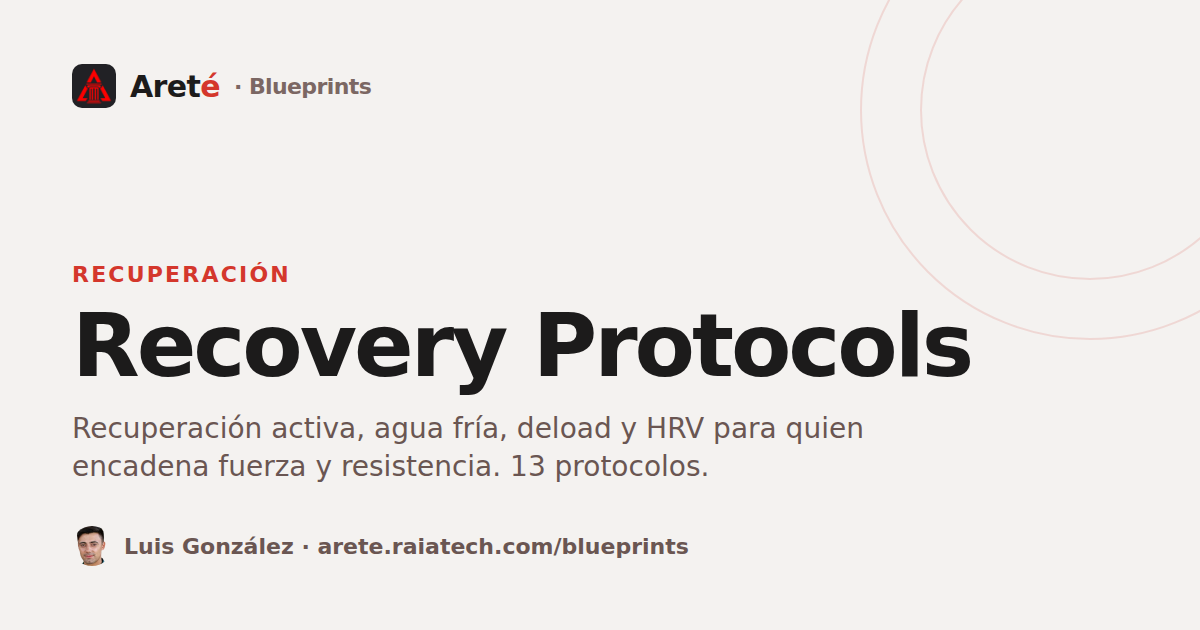
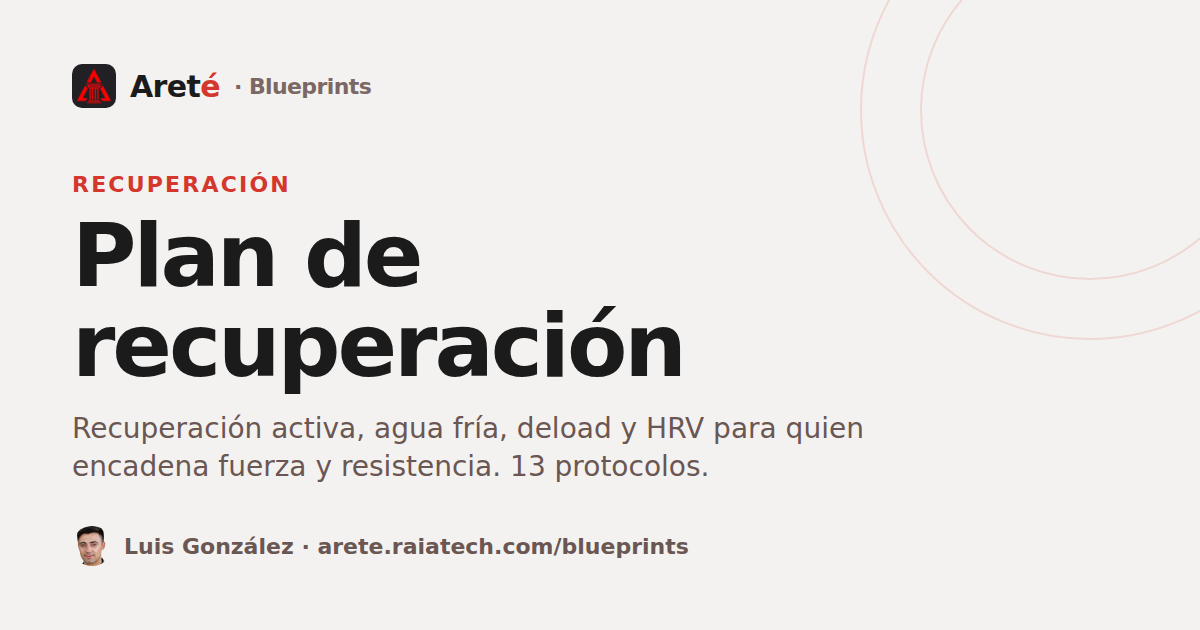
Blueprints: títulos en español
Plan de sueño, de recuperación, de respiración y de desconexión digital (y
movilidad con el mismo formato), en h1, title, og, JSON-LD, imágenes sociales
y portada. También las referencias cruzadas «ver Sleep Blueprint», que ahora
enlazan al plan de sueño.

Changed region(s): [[0.0617, 0.4825, 0.8325, 0.6333], [0.0617, 0.3317, 0.37, 0.4524], [0.0617, 0.2714, 0.2467, 0.3016]]

diff --git a/blueprints/recovery/index.html b/blueprints/recovery/index.html
@@ -3,7 +3,7 @@
 <head>
 <meta charset="UTF-8">
 <meta name="viewport" content="width=device-width, initial-scale=1.0">
-<title>Recovery Protocols · Areté</title>
+<title>Plan de recuperación · Areté</title>
 <link rel="icon" type="image/png" sizes="32x32" href="../../assets/icons/icon-32.png">
 <link rel="icon" type="image/png" sizes="16x16" href="../../assets/icons/icon-16.png">
 <link rel="apple-touch-icon" href="../../assets/icons/icon-192.png">
@@ -61,7 +61,7 @@
 </style>
 <meta name="description" content="Protocolos de recuperación basados en evidencia. Active recovery, CWI, foam rolling, nutrición post-entreno, deload, HRV. Para atletas híbridos.">
 <link rel="canonical" href="https://arete.raiatech.com/blueprints/recovery/">
-<meta property="og:title" content="Recovery Protocols — Areté">
+<meta property="og:title" content="Plan de recuperación — Areté">
 <meta property="og:description" content="Protocolos de recuperación basados en evidencia. Active recovery, CWI, foam rolling, nutrición post-entreno, deload, HRV. Para atletas híbridos.">
 <meta property="og:type" content="article">
 <meta property="og:url" content="https://arete.raiatech.com/blueprints/recovery/">
@@ -69,17 +69,17 @@
 <meta property="og:image" content="https://arete.raiatech.com/assets/blog/og/bp-recovery.png">
 <meta property="og:image:width" content="1200">
 <meta property="og:image:height" content="630">
-<meta property="og:image:alt" content="Recovery Protocols — Areté">
+<meta property="og:image:alt" content="Plan de recuperación — Areté">
 <meta name="twitter:card" content="summary_large_image">
 <meta name="twitter:site" content="@iamluisgb">
 <meta name="twitter:creator" content="@iamluisgb">
-<meta name="twitter:title" content="Recovery Protocols — Areté">
+<meta name="twitter:title" content="Plan de recuperación — Areté">
 <meta name="twitter:description" content="Protocolos de recuperación basados en evidencia. Active recovery, CWI, foam rolling, nutrición post-entreno, deload, HRV. Para atletas híbridos.">
 <meta name="twitter:image" content="https://arete.raiatech.com/assets/blog/og/bp-recovery.png"><!-- blog:head -->
 <meta property="article:published_time" content="2026-07-05">
 <meta property="article:modified_time" content="2026-08-24">
 <meta property="article:author" content="Luis González">
-<script type="application/ld+json">{"@context":"https://schema.org","@type":"Article","headline":"Recovery Protocols","description":"Recuperación activa, agua fría, deload y HRV para quien encadena fuerza y resistencia. 13 protocolos.","inLanguage":"es","url":"https://arete.raiatech.com/blueprints/recovery/","mainEntityOfPage":"https://arete.raiatech.com/blueprints/recovery/","image":"https://arete.raiatech.com/assets/blog/og/bp-recovery.png","datePublished":"2026-07-05","dateModified":"2026-08-24","timeRequired":"PT13M","author":{"@type":"Person","name":"Luis González","url":"https://luisgonzalezbernal.com"},"publisher":{"@type":"Organization","name":"Areté","url":"https://arete.raiatech.com","logo":"https://arete.raiatech.com/assets/icons/icon-192.png"}}</script>
+<script type="application/ld+json">{"@context":"https://schema.org","@type":"Article","headline":"Plan de recuperación","description":"Recuperación activa, agua fría, deload y HRV para quien encadena fuerza y resistencia. 13 protocolos.","inLanguage":"es","url":"https://arete.raiatech.com/blueprints/recovery/","mainEntityOfPage":"https://arete.raiatech.com/blueprints/recovery/","image":"https://arete.raiatech.com/assets/blog/og/bp-recovery.png","datePublished":"2026-07-05","dateModified":"2026-08-24","timeRequired":"PT13M","author":{"@type":"Person","name":"Luis González","url":"https://luisgonzalezbernal.com"},"publisher":{"@type":"Organization","name":"Areté","url":"https://arete.raiatech.com","logo":"https://arete.raiatech.com/assets/icons/icon-192.png"}}</script>
 <script src="../../blog/blog.js" defer></script>
 <!-- /blog:head --></head>
 <body>
@@ -91,7 +91,7 @@
 <div class="article-header">
   <a href="../index.html" class="back">← Volver a blueprints</a>
   <div class="phase-tag">Blueprint</div>
-  <h1>Recovery Protocols</h1>
+  <h1>Plan de <span>recuperación</span></h1>
   <div class="subtitle">Recuperación basada en evidencia. No tips genéricos — protocolos con mecanismo, dosis y timing. Diseñado para atletas híbridos que encadenan fuerza y resistencia.</div><!-- blog:byline --><div class="byline"><img src="../../assets/landing/luis.webp" alt="" width="36" height="36" decoding="async"><div><a href="https://luisgonzalezbernal.com" rel="author">Luis González</a><span>Actualizado el <time datetime="2026-08-24">24 de agosto de 2026</time> · 13 min de lectura</span></div></div><!-- /blog:byline -->
   <div class="badge-row">
     <span class="level-badge level-good"><span class="material-symbols-outlined" style="font-size:16px">checklist</span> 3 fases · 12 protocolos · 20 referencias</span>
@@ -366,7 +366,7 @@
 </div>
 
 <div id="sleep" class="section-label">Stacking de sueño · Noche post-entreno</div>
-<p style="font-size:var(--bp-fs-sm);color:var(--text2);margin-bottom:var(--sp-3)">El sueño es el protocolo de recuperación más potente que existe. La extensión de sueño (8-10h) mejora rendimiento, tiempo de reacción y reduce lesiones. Ver el <a href="../sleep/">Sleep Blueprint</a> para el protocolo completo. Aquí: lo específico para recuperación post-entreno.</p>
+<p style="font-size:var(--bp-fs-sm);color:var(--text2);margin-bottom:var(--sp-3)">El sueño es el protocolo de recuperación más potente que existe. La extensión de sueño (8-10h) mejora rendimiento, tiempo de reacción y reduce lesiones. Ver el <a href="../sleep/">plan de sueño</a> para el protocolo completo. Aquí: lo específico para recuperación post-entreno.</p>
 
 <div class="ex-card">
   <div class="num">Protocolo 10</div>
@@ -463,7 +463,7 @@
     <li><strong>Frecuencia:</strong> mantén los días de entreno. Reducir días rompe el ritmo y aumenta ansiedad.</li>
     <li><strong>Última sesión dura:</strong> 3-5 días antes. Intensidad alta, volumen mínimo (2-3 sets de activación).</li>
     <li><strong>Nutrición:</strong> aumenta carbs 2-3 días antes (carb loading) para competiciones &gt;90 min.</li>
-    <li><strong>Sleep:</strong> prioriza 8-10h. No pruebes nada nuevo la semana previa.</li>
+    <li><strong>Sueño:</strong> prioriza 8-10h. No pruebes nada nuevo la semana previa.</li>
   </ol>
   <div class="tips">
     <span class="tip tip-ok">· Baja volumen, mantén intensidad y frecuencia</span>
@@ -515,7 +515,7 @@
     <div class="tl-time">Noche</div>
     <div class="tl-content">
       <h4>Stacking de sueño</h4>
-      <p>8-10h. Temperatura 18-20°C. Sin pantallas 60 min antes. Ver Sleep Blueprint.</p>
+      <p>8-10h. Temperatura 18-20°C. Sin pantallas 60 min antes. Ver el <a href="../sleep/">plan de sueño</a>.</p>
     </div>
   </div>
   <div class="tl-item">
@@ -551,7 +551,7 @@
         <li>CWI testeado post-sesión de resistencia</li>
         <li>Prendas de compresión probadas</li>
         <li>Estiramiento post-entreno como hábito</li>
-        <li>Sleep stacking: 8h+ las noches post-entreno</li>
+        <li>Acumula sueño: 8h+ las noches post-entreno</li>
       </ul>
     </div>
     <div class="check-col">
@@ -573,7 +573,7 @@
       <ul>
         <li>Taper ejecutado (1-2 semanas)</li>
         <li>Carb loading si evento &gt;90 min</li>
-        <li>Sleep 8-10h la semana previa</li>
+        <li>Duerme 8-10h la semana previa</li>
         <li>Nada nuevo la semana de competición</li>
       </ul>
     </div>
@@ -612,7 +612,7 @@
   <p>Areté mide tus 7 dominios con tests concretos y te dice cuál te está frenando. Gratis.</p>
   <p style="margin-top:.75rem"><a href="../../app.html" class="cta">Descubre tu nivel →</a></p>
 </div>
-<nav class="read-next" aria-label="Más blueprints"><h2 class="read-next-title">Más blueprints</h2><div class="read-next-grid"><a href="../breathwork/" class="read-next-card"><span class="card-phase">Respiración</span><span class="nav-title">Breathwork Blueprint</span><span class="nav-desc">Qué respiración usar para el estrés, la recuperación, la activación y el rendimiento, y por qué. 12 protocolos.</span></a><a href="../digital-detox/" class="read-next-card"><span class="card-phase">Atención</span><span class="nav-title">Digital Detox Blueprint</span><span class="nav-desc">Mañanas sin móvil, bloqueadores y un entorno pensado para el trabajo profundo. 11 protocolos.</span></a></div></nav>
+<nav class="read-next" aria-label="Más blueprints"><h2 class="read-next-title">Más blueprints</h2><div class="read-next-grid"><a href="../breathwork/" class="read-next-card"><span class="card-phase">Respiración</span><span class="nav-title">Plan de respiración</span><span class="nav-desc">Qué respiración usar para el estrés, la recuperación, la activación y el rendimiento, y por qué. 12 protocolos.</span></a><a href="../digital-detox/" class="read-next-card"><span class="card-phase">Atención</span><span class="nav-title">Plan de desconexión digital</span><span class="nav-desc">Mañanas sin móvil, bloqueadores y un entorno pensado para el trabajo profundo. 11 protocolos.</span></a></div></nav>
 <!-- /blog:end --></div><!-- .article-body -->
 
 <!-- blog:footer --><footer class="site-footer">

diff --git a/blueprints/digital-detox/index.html b/blueprints/digital-detox/index.html
@@ -3,7 +3,7 @@
 <head>
 <meta charset="UTF-8">
 <meta name="viewport" content="width=device-width, initial-scale=1.0">
-<title>Digital Detox Blueprint · Areté</title>
+<title>Plan de desconexión digital · Areté</title>
 <link rel="icon" type="image/png" sizes="32x32" href="../../assets/icons/icon-32.png">
 <link rel="icon" type="image/png" sizes="16x16" href="../../assets/icons/icon-16.png">
 <link rel="apple-touch-icon" href="../../assets/icons/icon-192.png">
@@ -71,7 +71,7 @@
 </style>
 <meta name="description" content="Protocolo de desintoxicación digital basado en evidencia. Diseño ambiental, gestión de notificaciones, deep work, descanso semanal. Para recuperar atención y intención.">
 <link rel="canonical" href="https://arete.raiatech.com/blueprints/digital-detox/">
-<meta property="og:title" content="Digital Detox Blueprint — Areté">
+<meta property="og:title" content="Plan de desconexión digital — Areté">
 <meta property="og:description" content="Protocolo de desintoxicación digital basado en evidencia. Diseño ambiental, gestión de notificaciones, deep work, descanso semanal. Para recuperar atención y intención.">
 <meta property="og:type" content="article">
 <meta property="og:url" content="https://arete.raiatech.com/blueprints/digital-detox/">
@@ -79,17 +79,17 @@
 <meta property="og:image" content="https://arete.raiatech.com/assets/blog/og/bp-digital-detox.png">
 <meta property="og:image:width" content="1200">
 <meta property="og:image:height" content="630">
-<meta property="og:image:alt" content="Digital Detox Blueprint — Areté">
+<meta property="og:image:alt" content="Plan de desconexión digital — Areté">
 <meta name="twitter:card" content="summary_large_image">
 <meta name="twitter:site" content="@iamluisgb">
 <meta name="twitter:creator" content="@iamluisgb">
-<meta name="twitter:title" content="Digital Detox Blueprint — Areté">
+<meta name="twitter:title" content="Plan de desconexión digital — Areté">
 <meta name="twitter:description" content="Protocolo de desintoxicación digital basado en evidencia. Diseño ambiental, gestión de notificaciones, deep work, descanso semanal. Para recuperar atención y intención.">
 <meta name="twitter:image" content="https://arete.raiatech.com/assets/blog/og/bp-digital-detox.png"><!-- blog:head -->
 <meta property="article:published_time" content="2026-07-08">
 <meta property="article:modified_time" content="2026-08-24">
 <meta property="article:author" content="Luis González">
-<script type="application/ld+json">{"@context":"https://schema.org","@type":"Article","headline":"Digital Detox Blueprint","description":"Mañanas sin móvil, bloqueadores y un entorno pensado para el trabajo profundo. 11 protocolos.","inLanguage":"es","url":"https://arete.raiatech.com/blueprints/digital-detox/","mainEntityOfPage":"https://arete.raiatech.com/blueprints/digital-detox/","image":"https://arete.raiatech.com/assets/blog/og/bp-digital-detox.png","datePublished":"2026-07-08","dateModified":"2026-08-24","timeRequired":"PT23M","author":{"@type":"Person","name":"Luis González","url":"https://luisgonzalezbernal.com"},"publisher":{"@type":"Organization","name":"Areté","url":"https://arete.raiatech.com","logo":"https://arete.raiatech.com/assets/icons/icon-192.png"}}</script>
+<script type="application/ld+json">{"@context":"https://schema.org","@type":"Article","headline":"Plan de desconexión digital","description":"Mañanas sin móvil, bloqueadores y un entorno pensado para el trabajo profundo. 11 protocolos.","inLanguage":"es","url":"https://arete.raiatech.com/blueprints/digital-detox/","mainEntityOfPage":"https://arete.raiatech.com/blueprints/digital-detox/","image":"https://arete.raiatech.com/assets/blog/og/bp-digital-detox.png","datePublished":"2026-07-08","dateModified":"2026-08-24","timeRequired":"PT23M","author":{"@type":"Person","name":"Luis González","url":"https://luisgonzalezbernal.com"},"publisher":{"@type":"Organization","name":"Areté","url":"https://arete.raiatech.com","logo":"https://arete.raiatech.com/assets/icons/icon-192.png"}}</script>
 <script src="../../blog/blog.js" defer></script>
 <!-- /blog:head --></head>
 <body>
@@ -101,7 +101,7 @@
 <div class="article-header">
   <a href="../index.html" class="back">← Blueprints</a>
   <div class="phase-tag">Blueprint</div>
-  <h1>Digital Detox <span>Blueprint</span></h1>
+  <h1>Plan de <span>desconexión digital</span></h1>
   <div class="subtitle">Recupera tu atención. No tips de autoayuda — protocolos con mecanismo, dosis y timing. Diseñado para quien vive pegado a una pantalla y quiere recuperar intención sin irse a una cueva.</div><!-- blog:byline --><div class="byline"><img src="../../assets/landing/luis.webp" alt="" width="36" height="36" decoding="async"><div><a href="https://luisgonzalezbernal.com" rel="author">Luis González</a><span>Actualizado el <time datetime="2026-08-24">24 de agosto de 2026</time> · 23 min de lectura</span></div></div><!-- /blog:byline -->
   <div class="badge-row">
     <span class="badge">12 semanas</span>
@@ -209,7 +209,7 @@
   <ol class="steps">
     <li><strong>Compra un despertador físico.</strong> Usa el móvil como alarma es la excusa #1 para cogerlo al despertar. Un despertador de 15€ rompe esa cadena.</li>
     <li><strong>Deja el teléfono fuera del dormitorio.</strong> O al menos, al otro lado de la habitación, fuera de la mesilla. La fricción física es tu aliada.</li>
-    <li><strong>Primeros 60 min sin pantalla.</strong> Desayuno, luz matutina (ver <a href="../sleep/">Sleep Blueprint</a>), movimiento, lectura papel. El día empieza con tu agenda, no con la de otros.</li>
+    <li><strong>Primeros 60 min sin pantalla.</strong> Desayuno, luz matutina (ver el <a href="../sleep/">plan de sueño</a>), movimiento, lectura papel. El día empieza con tu agenda, no con la de otros.</li>
     <li><strong>Si necesitas el móvil para algo urgente</strong> (familia, on-call): ponlo en modo No Molestar con excepciones. No es una prohibición absoluta — es una intención por defecto.</li>
     <li><strong>La primera vez que lo cojas</strong> (después de 60 min), hazlo con intención: "¿para qué lo necesito ahora?". Si la respuesta es "mirar", espera 10 min más.</li>
   <div class="tips">
@@ -512,7 +512,7 @@
       <div class="tl-time">21:00</div>
       <div class="tl-content">
         <div class="tl-title">Reducción de pantallas</div>
-        <div class="tl-detail">Mismo principio que el Sleep Blueprint: 2h antes de dormir, pantallas off. Lectura, conversación, movimiento.</div>
+        <div class="tl-detail">Mismo principio que el plan de sueño: 2h antes de dormir, pantallas off. Lectura, conversación, movimiento.</div>
       </div>
     </div>
     <div class="tl-row">
@@ -617,7 +617,7 @@
   <p>Areté mide tus 7 dominios con tests concretos y te dice cuál te está frenando. Gratis.</p>
   <p style="margin-top:.75rem"><a href="../../app.html" class="cta">Descubre tu nivel →</a></p>
 </div>
-<nav class="read-next" aria-label="Más blueprints"><h2 class="read-next-title">Más blueprints</h2><div class="read-next-grid"><a href="../movilidad/" class="read-next-card"><span class="card-phase">Movilidad</span><span class="nav-title">Plan de movilidad: 12 semanas</span><span class="nav-desc">Control activo del rango de movimiento, medido con AKE. 21 ejercicios que encajan con la carrera y la fuerza.</span></a><a href="../sleep/" class="read-next-card"><span class="card-phase">Sueño</span><span class="nav-title">Sleep Blueprint</span><span class="nav-desc">Luz, temperatura, cafeína y suplementos, con mecanismo y dosis. 3 fases y 11 protocolos.</span></a></div></nav>
+<nav class="read-next" aria-label="Más blueprints"><h2 class="read-next-title">Más blueprints</h2><div class="read-next-grid"><a href="../movilidad/" class="read-next-card"><span class="card-phase">Movilidad</span><span class="nav-title">Plan de movilidad: 12 semanas</span><span class="nav-desc">Control activo del rango de movimiento, medido con AKE. 21 ejercicios que encajan con la carrera y la fuerza.</span></a><a href="../sleep/" class="read-next-card"><span class="card-phase">Sueño</span><span class="nav-title">Plan de sueño</span><span class="nav-desc">Luz, temperatura, cafeína y suplementos, con mecanismo y dosis. 3 fases y 11 protocolos.</span></a></div></nav>
 <!-- /blog:end --></div><!-- .article-body -->
 
 <!-- blog:footer --><footer class="site-footer">

diff --git a/blueprints/breathwork/index.html b/blueprints/breathwork/index.html
@@ -3,7 +3,7 @@
 <head>
 <meta charset="UTF-8">
 <meta name="viewport" content="width=device-width, initial-scale=1.0">
-<title>Breathwork Blueprint · Areté</title>
+<title>Plan de respiración · Areté</title>
 <link rel="icon" type="image/png" sizes="32x32" href="../../assets/icons/icon-32.png">
 <link rel="icon" type="image/png" sizes="16x16" href="../../assets/icons/icon-16.png">
 <link rel="apple-touch-icon" href="../../assets/icons/icon-192.png">
@@ -71,7 +71,7 @@
 </style>
 <meta name="description" content="Protocolos de respiración basados en evidencia. Box breathing, respiración diafragmática, Wim Hof, Buteyko. Para estrés, recuperación, activación y rendimiento.">
 <link rel="canonical" href="https://arete.raiatech.com/blueprints/breathwork/">
-<meta property="og:title" content="Breathwork Blueprint — Areté">
+<meta property="og:title" content="Plan de respiración — Areté">
 <meta property="og:description" content="Protocolos de respiración basados en evidencia. Box breathing, respiración diafragmática, Wim Hof, Buteyko. Para estrés, recuperación, activación y rendimiento.">
 <meta property="og:type" content="article">
 <meta property="og:url" content="https://arete.raiatech.com/blueprints/breathwork/">
@@ -79,17 +79,17 @@
 <meta property="og:image" content="https://arete.raiatech.com/assets/blog/og/bp-breathwork.png">
 <meta property="og:image:width" content="1200">
 <meta property="og:image:height" content="630">
-<meta property="og:image:alt" content="Breathwork Blueprint — Areté">
+<meta property="og:image:alt" content="Plan de respiración — Areté">
 <meta name="twitter:card" content="summary_large_image">
 <meta name="twitter:site" content="@iamluisgb">
 <meta name="twitter:creator" content="@iamluisgb">
-<meta name="twitter:title" content="Breathwork Blueprint — Areté">
+<meta name="twitter:title" content="Plan de respiración — Areté">
 <meta name="twitter:description" content="Protocolos de respiración basados en evidencia. Box breathing, respiración diafragmática, Wim Hof, Buteyko. Para estrés, recuperación, activación y rendimiento.">
 <meta name="twitter:image" content="https://arete.raiatech.com/assets/blog/og/bp-breathwork.png"><!-- blog:head -->
 <meta property="article:published_time" content="2026-07-08">
 <meta property="article:modified_time" content="2026-08-24">
 <meta property="article:author" content="Luis González">
-<script type="application/ld+json">{"@context":"https://schema.org","@type":"Article","headline":"Breathwork Blueprint","description":"Qué respiración usar para el estrés, la recuperación, la activación y el rendimiento, y por qué. 12 protocolos.","inLanguage":"es","url":"https://arete.raiatech.com/blueprints/breathwork/","mainEntityOfPage":"https://arete.raiatech.com/blueprints/breathwork/","image":"https://arete.raiatech.com/assets/blog/og/bp-breathwork.png","datePublished":"2026-07-08","dateModified":"2026-08-24","timeRequired":"PT22M","author":{"@type":"Person","name":"Luis González","url":"https://luisgonzalezbernal.com"},"publisher":{"@type":"Organization","name":"Areté","url":"https://arete.raiatech.com","logo":"https://arete.raiatech.com/assets/icons/icon-192.png"}}</script>
+<script type="application/ld+json">{"@context":"https://schema.org","@type":"Article","headline":"Plan de respiración","description":"Qué respiración usar para el estrés, la recuperación, la activación y el rendimiento, y por qué. 12 protocolos.","inLanguage":"es","url":"https://arete.raiatech.com/blueprints/breathwork/","mainEntityOfPage":"https://arete.raiatech.com/blueprints/breathwork/","image":"https://arete.raiatech.com/assets/blog/og/bp-breathwork.png","datePublished":"2026-07-08","dateModified":"2026-08-24","timeRequired":"PT22M","author":{"@type":"Person","name":"Luis González","url":"https://luisgonzalezbernal.com"},"publisher":{"@type":"Organization","name":"Areté","url":"https://arete.raiatech.com","logo":"https://arete.raiatech.com/assets/icons/icon-192.png"}}</script>
 <script src="../../blog/blog.js" defer></script>
 <!-- /blog:head --></head>
 <body>
@@ -101,7 +101,7 @@
 <div class="article-header">
   <a href="../index.html" class="back">← Blueprints</a>
   <div class="phase-tag">Blueprint</div>
-  <h1>Breathwork <span>Blueprint</span></h1>
+  <h1>Plan de <span>respiración</span></h1>
   <div class="subtitle">Respiración como herramienta. No es espiritualidad — es fisiología. Protocolos con mecanismo, dosis y timing para cuatro contextos: estrés agudo, recuperación, activación y rendimiento. Lo que funciona, lo que no, y por qué.</div><!-- blog:byline --><div class="byline"><img src="../../assets/landing/luis.webp" alt="" width="36" height="36" decoding="async"><div><a href="https://luisgonzalezbernal.com" rel="author">Luis González</a><span>Actualizado el <time datetime="2026-08-24">24 de agosto de 2026</time> · 22 min de lectura</span></div></div><!-- /blog:byline -->
   <div class="badge-row">
     <span class="badge">12 semanas</span>
@@ -421,7 +421,7 @@
 </div>
 
 <div id="sleep-breath" class="section-label" style="margin-top:var(--sp-5)">Protocolo pre-sueño · 5 min · en la cama</div>
-<p style="font-size:var(--bp-fs-sm);color:var(--text2);margin-bottom:var(--sp-3)">El último protocolo del día. El wind-down del Sleep Blueprint ya reduce luz y temperatura. La respiración es la capa final: apaga el sistema nervioso central en menos de 5 min. Es el protocolo que más impacto tiene con menos esfuerzo.</p>
+<p style="font-size:var(--bp-fs-sm);color:var(--text2);margin-bottom:var(--sp-3)">El último protocolo del día. La rutina para desconectar del <a href="../sleep/">plan de sueño</a> ya reduce luz y temperatura. La respiración es la capa final: apaga el sistema nervioso central en menos de 5 min. Es el protocolo que más impacto tiene con menos esfuerzo.</p>
 
 <div class="ex-card">
   <div class="num">Protocolo 11</div>
@@ -623,7 +623,7 @@
   <p>Areté mide tus 7 dominios con tests concretos y te dice cuál te está frenando. Gratis.</p>
   <p style="margin-top:.75rem"><a href="../../app.html" class="cta">Descubre tu nivel →</a></p>
 </div>
-<nav class="read-next" aria-label="Más blueprints"><h2 class="read-next-title">Más blueprints</h2><div class="read-next-grid"><a href="../digital-detox/" class="read-next-card"><span class="card-phase">Atención</span><span class="nav-title">Digital Detox Blueprint</span><span class="nav-desc">Mañanas sin móvil, bloqueadores y un entorno pensado para el trabajo profundo. 11 protocolos.</span></a><a href="../movilidad/" class="read-next-card"><span class="card-phase">Movilidad</span><span class="nav-title">Plan de movilidad: 12 semanas</span><span class="nav-desc">Control activo del rango de movimiento, medido con AKE. 21 ejercicios que encajan con la carrera y la fuerza.</span></a></div></nav>
+<nav class="read-next" aria-label="Más blueprints"><h2 class="read-next-title">Más blueprints</h2><div class="read-next-grid"><a href="../digital-detox/" class="read-next-card"><span class="card-phase">Atención</span><span class="nav-title">Plan de desconexión digital</span><span class="nav-desc">Mañanas sin móvil, bloqueadores y un entorno pensado para el trabajo profundo. 11 protocolos.</span></a><a href="../movilidad/" class="read-next-card"><span class="card-phase">Movilidad</span><span class="nav-title">Plan de movilidad: 12 semanas</span><span class="nav-desc">Control activo del rango de movimiento, medido con AKE. 21 ejercicios que encajan con la carrera y la fuerza.</span></a></div></nav>
 <!-- /blog:end --></div><!-- .article-body -->
 
 <!-- blog:footer --><footer class="site-footer">

diff --git a/blueprints/sleep/index.html b/blueprints/sleep/index.html
@@ -3,7 +3,7 @@
 <head>
 <meta charset="UTF-8">
 <meta name="viewport" content="width=device-width, initial-scale=1.0">
-<title>Sleep Blueprint · Areté</title>
+<title>Plan de sueño · Areté</title>
 <link rel="icon" type="image/png" sizes="32x32" href="../../assets/icons/icon-32.png">
 <link rel="icon" type="image/png" sizes="16x16" href="../../assets/icons/icon-16.png">
 <link rel="apple-touch-icon" href="../../assets/icons/icon-192.png">
@@ -76,7 +76,7 @@
 </style>
 <meta name="description" content="Protocolo de sueño basado en evidencia. Luz, temperatura, cafeína, suplementos. Modelo de dos procesos, ritmo circadiano, higiene del sueño.">
 <link rel="canonical" href="https://arete.raiatech.com/blueprints/sleep/">
-<meta property="og:title" content="Sleep Blueprint — Areté">
+<meta property="og:title" content="Plan de sueño — Areté">
 <meta property="og:description" content="Protocolo de sueño basado en evidencia. Luz, temperatura, cafeína, suplementos. Modelo de dos procesos, ritmo circadiano, higiene del sueño.">
 <meta property="og:type" content="article">
 <meta property="og:url" content="https://arete.raiatech.com/blueprints/sleep/">
@@ -84,17 +84,17 @@
 <meta property="og:image" content="https://arete.raiatech.com/assets/blog/og/bp-sleep.png">
 <meta property="og:image:width" content="1200">
 <meta property="og:image:height" content="630">
-<meta property="og:image:alt" content="Sleep Blueprint — Areté">
+<meta property="og:image:alt" content="Plan de sueño — Areté">
 <meta name="twitter:card" content="summary_large_image">
 <meta name="twitter:site" content="@iamluisgb">
 <meta name="twitter:creator" content="@iamluisgb">
-<meta name="twitter:title" content="Sleep Blueprint — Areté">
+<meta name="twitter:title" content="Plan de sueño — Areté">
 <meta name="twitter:description" content="Protocolo de sueño basado en evidencia. Luz, temperatura, cafeína, suplementos. Modelo de dos procesos, ritmo circadiano, higiene del sueño.">
 <meta name="twitter:image" content="https://arete.raiatech.com/assets/blog/og/bp-sleep.png"><!-- blog:head -->
 <meta property="article:published_time" content="2026-07-05">
 <meta property="article:modified_time" content="2026-08-24">
 <meta property="article:author" content="Luis González">
-<script type="application/ld+json">{"@context":"https://schema.org","@type":"Article","headline":"Sleep Blueprint","description":"Luz, temperatura, cafeína y suplementos, con mecanismo y dosis. 3 fases y 11 protocolos.","inLanguage":"es","url":"https://arete.raiatech.com/blueprints/sleep/","mainEntityOfPage":"https://arete.raiatech.com/blueprints/sleep/","image":"https://arete.raiatech.com/assets/blog/og/bp-sleep.png","datePublished":"2026-07-05","dateModified":"2026-08-24","timeRequired":"PT16M","author":{"@type":"Person","name":"Luis González","url":"https://luisgonzalezbernal.com"},"publisher":{"@type":"Organization","name":"Areté","url":"https://arete.raiatech.com","logo":"https://arete.raiatech.com/assets/icons/icon-192.png"}}</script>
+<script type="application/ld+json">{"@context":"https://schema.org","@type":"Article","headline":"Plan de sueño","description":"Luz, temperatura, cafeína y suplementos, con mecanismo y dosis. 3 fases y 11 protocolos.","inLanguage":"es","url":"https://arete.raiatech.com/blueprints/sleep/","mainEntityOfPage":"https://arete.raiatech.com/blueprints/sleep/","image":"https://arete.raiatech.com/assets/blog/og/bp-sleep.png","datePublished":"2026-07-05","dateModified":"2026-08-24","timeRequired":"PT16M","author":{"@type":"Person","name":"Luis González","url":"https://luisgonzalezbernal.com"},"publisher":{"@type":"Organization","name":"Areté","url":"https://arete.raiatech.com","logo":"https://arete.raiatech.com/assets/icons/icon-192.png"}}</script>
 <script src="../../blog/blog.js" defer></script>
 <!-- /blog:head --></head>
 <body>
@@ -106,7 +106,7 @@
 <div class="article-header">
   <a href="../index.html" class="back">← Blueprints</a>
   <div class="phase-tag">Blueprint</div>
-  <h1>Sleep <span>Blueprint</span></h1>
+  <h1>Plan de <span>sueño</span></h1>
   <div class="subtitle">Sueño óptimo basado en evidencia. No tips genéricos — protocolos con mecanismo, dosis y timing. Diseñado para atletas híbridos.</div><!-- blog:byline --><div class="byline"><img src="../../assets/landing/luis.webp" alt="" width="36" height="36" decoding="async"><div><a href="https://luisgonzalezbernal.com" rel="author">Luis González</a><span>Actualizado el <time datetime="2026-08-24">24 de agosto de 2026</time> · 16 min de lectura</span></div></div><!-- /blog:byline -->
   <div class="badge-row">
     <span class="badge">12 semanas</span>
@@ -589,7 +589,7 @@
   <p>Areté mide tus 7 dominios con tests concretos y te dice cuál te está frenando. Gratis.</p>
   <p style="margin-top:.75rem"><a href="../../app.html" class="cta">Descubre tu nivel →</a></p>
 </div>
-<nav class="read-next" aria-label="Más blueprints"><h2 class="read-next-title">Más blueprints</h2><div class="read-next-grid"><a href="../recovery/" class="read-next-card"><span class="card-phase">Recuperación</span><span class="nav-title">Recovery Protocols</span><span class="nav-desc">Recuperación activa, agua fría, deload y HRV para quien encadena fuerza y resistencia. 13 protocolos.</span></a><a href="../breathwork/" class="read-next-card"><span class="card-phase">Respiración</span><span class="nav-title">Breathwork Blueprint</span><span class="nav-desc">Qué respiración usar para el estrés, la recuperación, la activación y el rendimiento, y por qué. 12 protocolos.</span></a></div></nav>
+<nav class="read-next" aria-label="Más blueprints"><h2 class="read-next-title">Más blueprints</h2><div class="read-next-grid"><a href="../recovery/" class="read-next-card"><span class="card-phase">Recuperación</span><span class="nav-title">Plan de recuperación</span><span class="nav-desc">Recuperación activa, agua fría, deload y HRV para quien encadena fuerza y resistencia. 13 protocolos.</span></a><a href="../breathwork/" class="read-next-card"><span class="card-phase">Respiración</span><span class="nav-title">Plan de respiración</span><span class="nav-desc">Qué respiración usar para el estrés, la recuperación, la activación y el rendimiento, y por qué. 12 protocolos.</span></a></div></nav>
 <!-- /blog:end --></div><!-- .article-body -->
 
 <!-- blog:footer --><footer class="site-footer">

diff --git a/blueprints/index.html b/blueprints/index.html
@@ -46,10 +46,10 @@
 <section class="blog-list bp-list" aria-label="Blueprints">
   <ol class="post-grid">
     <li><a href="movilidad/" class="article-card" data-umami-event="Blueprints: abrir" data-umami-event-blueprint="movilidad"><span class="card-phase">Movilidad</span><h3>Plan de movilidad: 12 semanas</h3><p>Control activo del rango de movimiento, medido con AKE. 21 ejercicios que encajan con la carrera y la fuerza.</p></a></li>
-    <li><a href="sleep/" class="article-card" data-umami-event="Blueprints: abrir" data-umami-event-blueprint="sleep"><span class="card-phase">Sueño</span><h3>Sleep Blueprint</h3><p>Luz, temperatura, cafeína y suplementos, con mecanismo y dosis. 3 fases y 11 protocolos.</p></a></li>
-    <li><a href="recovery/" class="article-card" data-umami-event="Blueprints: abrir" data-umami-event-blueprint="recovery"><span class="card-phase">Recuperación</span><h3>Recovery Protocols</h3><p>Recuperación activa, agua fría, deload y HRV para quien encadena fuerza y resistencia. 13 protocolos.</p></a></li>
-    <li><a href="breathwork/" class="article-card" data-umami-event="Blueprints: abrir" data-umami-event-blueprint="breathwork"><span class="card-phase">Respiración</span><h3>Breathwork Blueprint</h3><p>Qué respiración usar para el estrés, la recuperación, la activación y el rendimiento, y por qué. 12 protocolos.</p></a></li>
-    <li><a href="digital-detox/" class="article-card" data-umami-event="Blueprints: abrir" data-umami-event-blueprint="digital-detox"><span class="card-phase">Atención</span><h3>Digital Detox Blueprint</h3><p>Mañanas sin móvil, bloqueadores y un entorno pensado para el trabajo profundo. 11 protocolos.</p></a></li>
+    <li><a href="sleep/" class="article-card" data-umami-event="Blueprints: abrir" data-umami-event-blueprint="sleep"><span class="card-phase">Sueño</span><h3>Plan de sueño</h3><p>Luz, temperatura, cafeína y suplementos, con mecanismo y dosis. 3 fases y 11 protocolos.</p></a></li>
+    <li><a href="recovery/" class="article-card" data-umami-event="Blueprints: abrir" data-umami-event-blueprint="recovery"><span class="card-phase">Recuperación</span><h3>Plan de recuperación</h3><p>Recuperación activa, agua fría, deload y HRV para quien encadena fuerza y resistencia. 13 protocolos.</p></a></li>
+    <li><a href="breathwork/" class="article-card" data-umami-event="Blueprints: abrir" data-umami-event-blueprint="breathwork"><span class="card-phase">Respiración</span><h3>Plan de respiración</h3><p>Qué respiración usar para el estrés, la recuperación, la activación y el rendimiento, y por qué. 12 protocolos.</p></a></li>
+    <li><a href="digital-detox/" class="article-card" data-umami-event="Blueprints: abrir" data-umami-event-blueprint="digital-detox"><span class="card-phase">Atención</span><h3>Plan de desconexión digital</h3><p>Mañanas sin móvil, bloqueadores y un entorno pensado para el trabajo profundo. 11 protocolos.</p></a></li>
     <li><a href="../blog/nutricion.html" class="article-card" data-umami-event="Blueprints: abrir" data-umami-event-blueprint="nutricion"><span class="card-phase">Nutrición</span><h3>Come como un animal</h3><p>Calorías, macros, timing y suplementos para cada fase, sin dietas absurdas.</p></a></li>
   </ol>
   <p class="bp-soon">En preparación: frío y calor, movilidad para quien trabaja sentado y prevención de lesiones en corredores.</p>

diff --git a/blueprints/movilidad/index.html b/blueprints/movilidad/index.html
@@ -101,7 +101,7 @@
 <div class="article-header">
   <a href="../index.html" class="back">← Volver a blueprints</a>
   <div class="phase-tag">Blueprint</div>
-  <h1>Plan de Movilidad · 12 Semanas</h1>
+  <h1>Plan de <span>movilidad</span> · 12 semanas</h1>
   <div class="subtitle">Movilidad funcional basada en evidencia. No estiramientos pasivos — control activo de rango de movimiento. Medido con AKE, no con Sit &amp; Reach.</div><!-- blog:byline --><div class="byline"><img src="../../assets/landing/luis.webp" alt="" width="36" height="36" decoding="async"><div><a href="https://luisgonzalezbernal.com" rel="author">Luis González</a><span>Actualizado el <time datetime="2026-08-24">24 de agosto de 2026</time> · 6 min de lectura</span></div></div><!-- /blog:byline -->
 </div>
 
@@ -512,7 +512,7 @@
   <p>Areté mide tus 7 dominios con tests concretos y te dice cuál te está frenando. Gratis.</p>
   <p style="margin-top:.75rem"><a href="../../app.html" class="cta">Descubre tu nivel →</a></p>
 </div>
-<nav class="read-next" aria-label="Más blueprints"><h2 class="read-next-title">Más blueprints</h2><div class="read-next-grid"><a href="../sleep/" class="read-next-card"><span class="card-phase">Sueño</span><span class="nav-title">Sleep Blueprint</span><span class="nav-desc">Luz, temperatura, cafeína y suplementos, con mecanismo y dosis. 3 fases y 11 protocolos.</span></a><a href="../recovery/" class="read-next-card"><span class="card-phase">Recuperación</span><span class="nav-title">Recovery Protocols</span><span class="nav-desc">Recuperación activa, agua fría, deload y HRV para quien encadena fuerza y resistencia. 13 protocolos.</span></a></div></nav>
+<nav class="read-next" aria-label="Más blueprints"><h2 class="read-next-title">Más blueprints</h2><div class="read-next-grid"><a href="../sleep/" class="read-next-card"><span class="card-phase">Sueño</span><span class="nav-title">Plan de sueño</span><span class="nav-desc">Luz, temperatura, cafeína y suplementos, con mecanismo y dosis. 3 fases y 11 protocolos.</span></a><a href="../recovery/" class="read-next-card"><span class="card-phase">Recuperación</span><span class="nav-title">Plan de recuperación</span><span class="nav-desc">Recuperación activa, agua fría, deload y HRV para quien encadena fuerza y resistencia. 13 protocolos.</span></a></div></nav>
 <!-- /blog:end --></div><!-- .article-body -->
 
 <!-- blog:footer --><footer class="site-footer">
